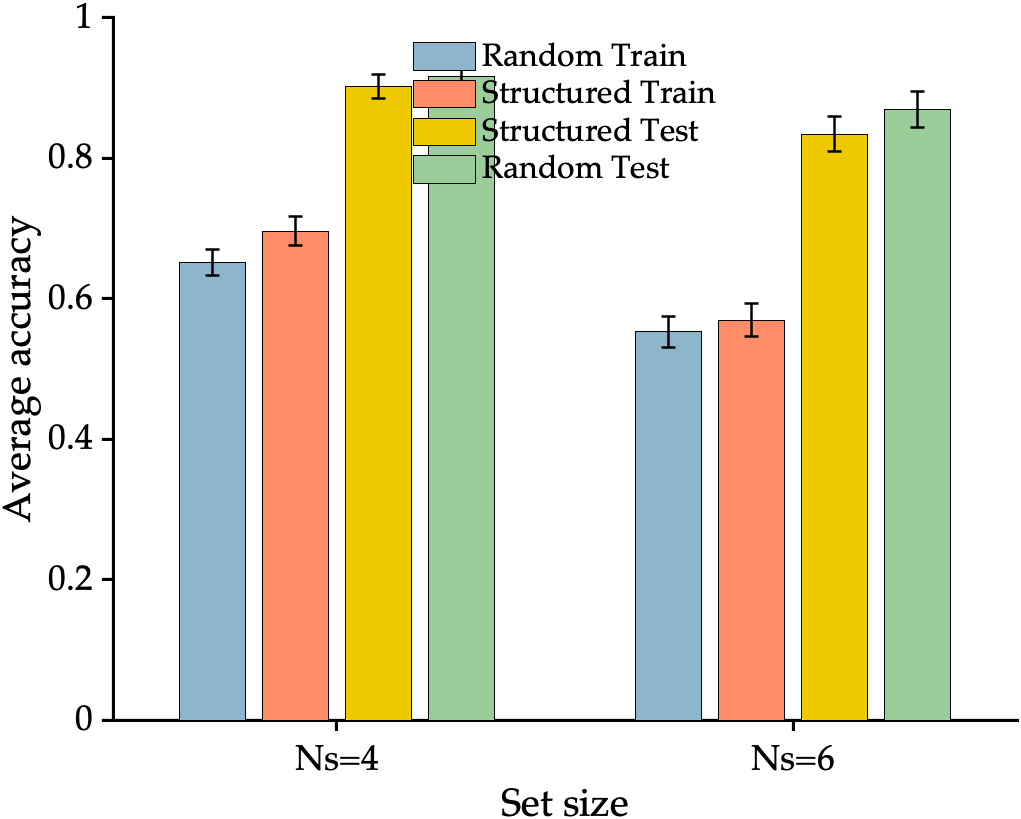
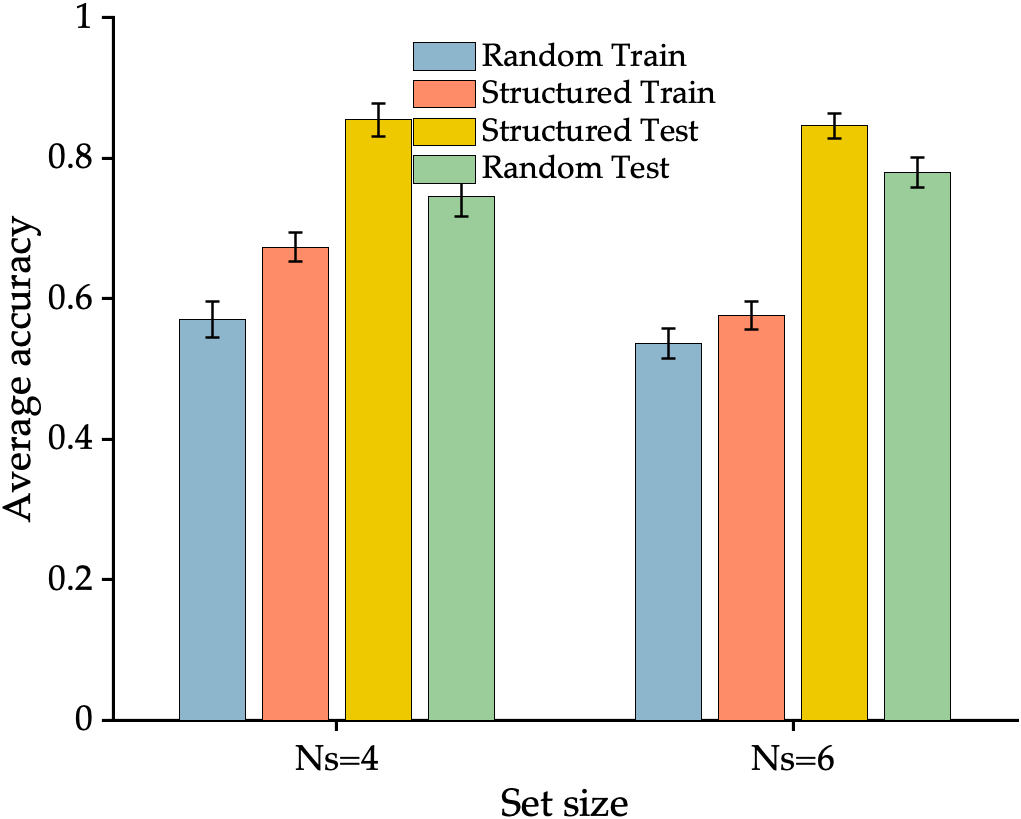
simulation functions

diff --git a/analyze_simdata.m b/analyze_simdata.m
@@ -8,69 +8,25 @@ bmap = [141 182 205
         255 140 105
         238 201 0  
         155 205 155] / 255;         
-%%
-%simdata = sim_from_empirical(1, data, results);
+    
+%% Simulate data
+incentive_manip = 0; 
 
-incentives.Ns4 = [eye(4), transpose([0 1 0 0])];
-%incentives.Ns4(1,:) = incentives.Ns4(1,:)*5;
-incentives.Ns6 = [eye(6), transpose([0 0 0 0 1 0])];
-%incentives.Ns6(4,:) = incentives.Ns6(4,:)*5;
-simdata = sim_incentive_manipulation(incentives);
+if incentive_manip  % simulate data under incentive manipulation for Ns=4
+    manipulation = [eye(4), transpose([0 1 0 0])];
+    manipulation(1,1) = 5;
+    incentives{3} = manipulation;
+    simdata = sim_incentive_manipulation(incentives, 4);
+else                % simulate data under regular reward scheme
+    simdata = sim_from_empirical();    
+end
 
-% Exploratory Analysis
+
+%% Exploratory Analysis
 learningCurve(simdata);
 exploratoryAnalysis('avgAcc', simdata);
            
-%% Cumulative cost 
-bmap = plmColors(length(condition)/2, 'pastel1');
-cumcost = cell(length(simdata), length(condition));
-avgcumcost = cell(1, length(condition));
-for cond = 1:length(condition)
-    for subj = 1:length(simdata)
-        cumcost{subj, cond} = cumsum(simdata(subj).cost(strcmp(simdata(subj).cond, condition{cond})));
-        if isempty(avgcumcost{cond}); avgcumcost{cond} = zeros(1, length(cumcost{subj,cond})); end
-        avgcumcost{cond} = avgcumcost{cond} + cumcost{subj, cond};
-    end
-    avgcumcost{cond} = avgcumcost{cond} / length(simdata);
-end
 
-for i = 1:2
-    figure; hold on;
-    plot(avgcumcost{4*(i-1)+1}, 'linewidth', 4);
-    plot(avgcumcost{4*(i-1)+2}, 'linewidth', 4);
-    plot(avgcumcost{4*(i-1)+4}, 'linewidth', 4);
-    plot(avgcumcost{4*(i-1)+3}, 'linewidth', 4);
-    xlabel('Iterations'); ylabel('Cumulative cost');
-    legend('Random Train', 'Structured Train', 'Random Test', 'Structured Test', 'location','northwest');
-    legend('boxoff');
-    if i==1; title('Ns=4'); end
-    if i==2; title('Ns=6'); end
-end
-
-%% Running average of cost
-ecost = cell(length(simdata), length(condition));
-avgecost = cell(1, length(condition));
-for cond = 1:length(condition)
-    for subj = 1:length(simdata)
-        ecost{subj, cond} = simdata(subj).ecost(strcmp(simdata(subj).cond, condition{cond}));
-        if isempty(avgcumcost{cond}); avgcumcost{cond} = zeros(1, length(cumcost{subj,cond})); end
-        avgecost{cond} = avgcumcost{cond} + ecost{subj, cond};
-    end
-    avgecost{cond} = avgecost{cond} / length(simdata);
-end
-
-for i = 1:2
-    figure; hold on;
-    plot(avgecost{4*(i-1)+1}, 'linewidth', 4);
-    plot(avgecost{4*(i-1)+2}, 'linewidth', 4);
-    plot(avgecost{4*(i-1)+4}, 'linewidth', 4);
-    plot(avgecost{4*(i-1)+3}, 'linewidth', 4);
-    xlabel('Iterations'); ylabel('Running average of cost');
-    legend('Random Train', 'Structured Train', 'Random Test', 'Structured Test', 'location','northwest');
-    legend('boxoff');
-    if i==1; title('Ns=4'); end
-    if i==2; title('Ns=6'); end
-end
 %% The probability of using chunks VS primitive action
 nSubj = length(simdata);
 times = zeros(nSubj, length(condition));
@@ -122,3 +78,31 @@ for subj = 1:nSubj
         pAS(subj,cond) = sum(simdata(subj).inChunk(idx)==0 & simdata(subj).a(idx)==init & state==init) / sum(state==init);
     end
 end
+
+
+%% Cumulative cost (WRONG WAY OF CALCULATING THE ECOST)
+bmap = plmColors(length(condition)/2, 'pastel1');
+cumcost = cell(length(simdata), length(condition));
+avgcumcost = cell(1, length(condition));
+for cond = 1:length(condition)
+    for subj = 1:length(simdata)
+        cumcost{subj, cond} = cumsum(simdata(subj).cost(strcmp(simdata(subj).cond, condition{cond})));
+        if isempty(avgcumcost{cond}); avgcumcost{cond} = zeros(1, length(cumcost{subj,cond})); end
+        avgcumcost{cond} = avgcumcost{cond} + cumcost{subj, cond};
+    end
+    avgcumcost{cond} = avgcumcost{cond} / length(simdata);
+end
+
+for i = 1:2
+    figure; hold on;
+    plot(avgcumcost{4*(i-1)+1}, 'linewidth', 4);
+    plot(avgcumcost{4*(i-1)+2}, 'linewidth', 4);
+    plot(avgcumcost{4*(i-1)+4}, 'linewidth', 4);
+    plot(avgcumcost{4*(i-1)+3}, 'linewidth', 4);
+    xlabel('Iterations'); ylabel('Cumulative cost');
+    legend('Random Train', 'Structured Train', 'Random Test', 'Structured Test', 'location','northwest');
+    legend('boxoff');
+    if i==1; title('Ns=4'); end
+    if i==2; title('Ns=6'); end
+end
+

diff --git a/actor_critic_sim_refined.m b/actor_critic_sim_refined.m
@@ -50,27 +50,25 @@ for setId = 1:length(cond)
     a_actual = 0;
     policy_prev = 0;
     
-   for t = 1:length(state)
+    for t = 1:length(state)
         s = state(t);
-        
+        d = beta * theta(s,:) + log(p);
+        logpolicy = d-logsumexp(d);
+        policy = exp(logpolicy);    % softmax policy
         if inChunk == 0
-            d = beta * theta(s,:) + log(p);
-            logpolicy = d-logsumexp(d);
-            policy = exp(logpolicy);
-            a = fastrandsample(policy); 
-            
-            r = reward(s,a);
+            a = fastrandsample(policy); % action
             if a==nA; inChunk=1; chunkStep=1; end
         else
-            a = nA;
             chunkStep = chunkStep+1;
-            r = reward(s, chunk(chunkStep));
+            a = nA;
         end
         
+        if inChunk == 0; a_actual = a; end
+        if inChunk == 1; a_actual = chunk(chunkStep); end
+        
+        r = reward(s, a_actual);
         cost = logpolicy(a) - log(p(a));
         if inChunk==1 && chunkStep>1; cost=0; end
-        if inChunk==1; acc = s==chunk(chunkStep); a_ground = chunk(chunkStep); end
-        if inChunk==0; acc = s==a; a_ground = a; end
         
         if agent.m > 1                       
             rpe = beta*r - cost - V(s);       
@@ -83,26 +81,47 @@ for setId = 1:length(cond)
             beta = beta + agent.lrate_beta*2*(agent.C-ecost); 
             beta = max(min(beta,50),0);
         end
-                    
-        g = agent.beta*(1 - policy(a));                        % policy gradient
-        theta(s,a) = theta(s,a) + (agent.lrate_theta)*rpe*g;   % policy parameter update
-        V(s) = V(s) + agent.lrate_V*rpe;
+
+        if ~inChunk
+            g = rpe*beta*(1 - policy(a));   
+            theta(s,a) = theta(s,a) + agent.lrate_theta*g;             
+            Q(s,a) = Q(s,a) + agent.lrate_V*(beta*r-cost-Q(s,a));
+            V(s) = V(s) + agent.lrate_V*rpe;  
+            p = p + agent.lrate_p*(policy - p); p = p./sum(p);
+            if a==chunk(1)
+                theta(s,nA) = theta(s,nA) + agent.lrate_theta*g;
+                Q(s,nA) = Q(s,nA) + agent.lrate_V*(beta*r-cost-Q(s,a));
+            end
+        else
+            if chunkStep==2
+                s_prev = simdata.s(idx(t-1));
+                r_chunk = (simdata.r(idx(t-1))==1 && r==1); if r_chunk==0; r_chunk=-1; end
+                rpe_chunk = beta*r_chunk - simdata.cost(idx(t-1)) - V(s_prev);
+                g_chunk = rpe_chunk*beta*(1-policy_prev(nA));
+                theta(s_prev,nA) = theta(s_prev,nA) +agent.lrate_theta*(g_chunk);  
+                Q(s_prev,nA) = Q(s_prev,nA) + agent.lrate_V*(beta*r_chunk-simdata.cost(idx(t-1))-Q(s_prev,a));
+                V(s_prev) = V(s_prev) + agent.lrate_V*rpe_chunk;  
+                p = p + agent.lrate_p*(policy - p); p = p./sum(p);
+            end
+        end
         
         simdata.s(idx(t)) = s;
+        simdata.a(idx(t)) = a_actual;
         simdata.r(idx(t)) = r;
-        simdata.a(idx(t)) = a_ground;
+        simdata.acc(idx(t)) = s==a_actual;
         simdata.beta(idx(t)) = beta;
         simdata.ecost(idx(t)) = ecost;
         simdata.cost(idx(t)) = cost;
-        simdata.acc(idx(t)) = acc;
         simdata.cond(idx(t)) = condition(t);
         simdata.theta{idx(t)} = theta;
         simdata.inChunk(idx(t)) = inChunk;
         simdata.chunkStep(idx(t)) = chunkStep;
         simdata.policy{idx(t)} = policy;
-    
         if chunkStep==length(chunk); inChunk=0; chunkStep=0; end
+        policy_prev = policy;
+        
     end
+    simdata.p(setId) = {p};
 end
 end
         

diff --git a/sim_incentive_manipulation.m b/sim_incentive_manipulation.m
@@ -1,19 +1,16 @@
-function simdata = sim_incentive_manipulation()
+function simdata = sim_incentive_manipulation(incentives, setsize)
 addpath([pwd '/matlab_data/']);
 load('actionChunk_data.mat');
 load('fixed_adaptive_chunk.mat');
 modelIdx = 1;
 nSubj = length(data);
-setsize = 4;
-conditions = {'Ns4,baseline', 'Ns4,train', 'Ns4,perform', 'Ns4,test'};
 
-%%  Set incentive structure
-for i = 1:4
-    incentives{i} = [eye(4), transpose([0 1 0 0])];
+switch setsize
+    case 4
+        conditions = {'Ns4,baseline', 'Ns4,train', 'Ns4,perform', 'Ns4,test'};
+    case 6
+        conditions = {'Ns6,baseline', 'Ns6,train', 'Ns6,perform', 'Ns6,test'};
 end
-manipulation = [eye(4), transpose([0 1 0 0])];
-manipulation(1,1) = 5;
-incentives{3} = manipulation;
 
 
 %%  Simulate

diff --git a/sim_from_empirical.m b/sim_from_empirical.m
@@ -3,6 +3,7 @@ addpath('/Users/ann/Desktop/CCN_Lab/BehavioralExperiment/Ns6_FinalVersion/matlab
 prettyplot
 if nargin < 3; load model_fitting_all.mat; end
 if nargin < 2; load actionChunk_data.mat; end
+if nargin == 0; modelIdx = 4; end
 
 results = results(modelIdx);
 for s = 1:length(data)

diff --git a/actor_critic_sim_incentive.m b/actor_critic_sim_incentive.m
@@ -1,5 +1,11 @@
 function simdata = actor_critic_sim_incentive(agent, data, setsize, incentives)
 
+if nargin < 4 || isempty(incentives)
+    for i = 1:4
+    incentives{i} = [eye(4), transpose([0 1 0 0])];
+    end
+end
+
 if ~isfield(agent, 'beta')
     agent.beta = agent.beta0;
 end
